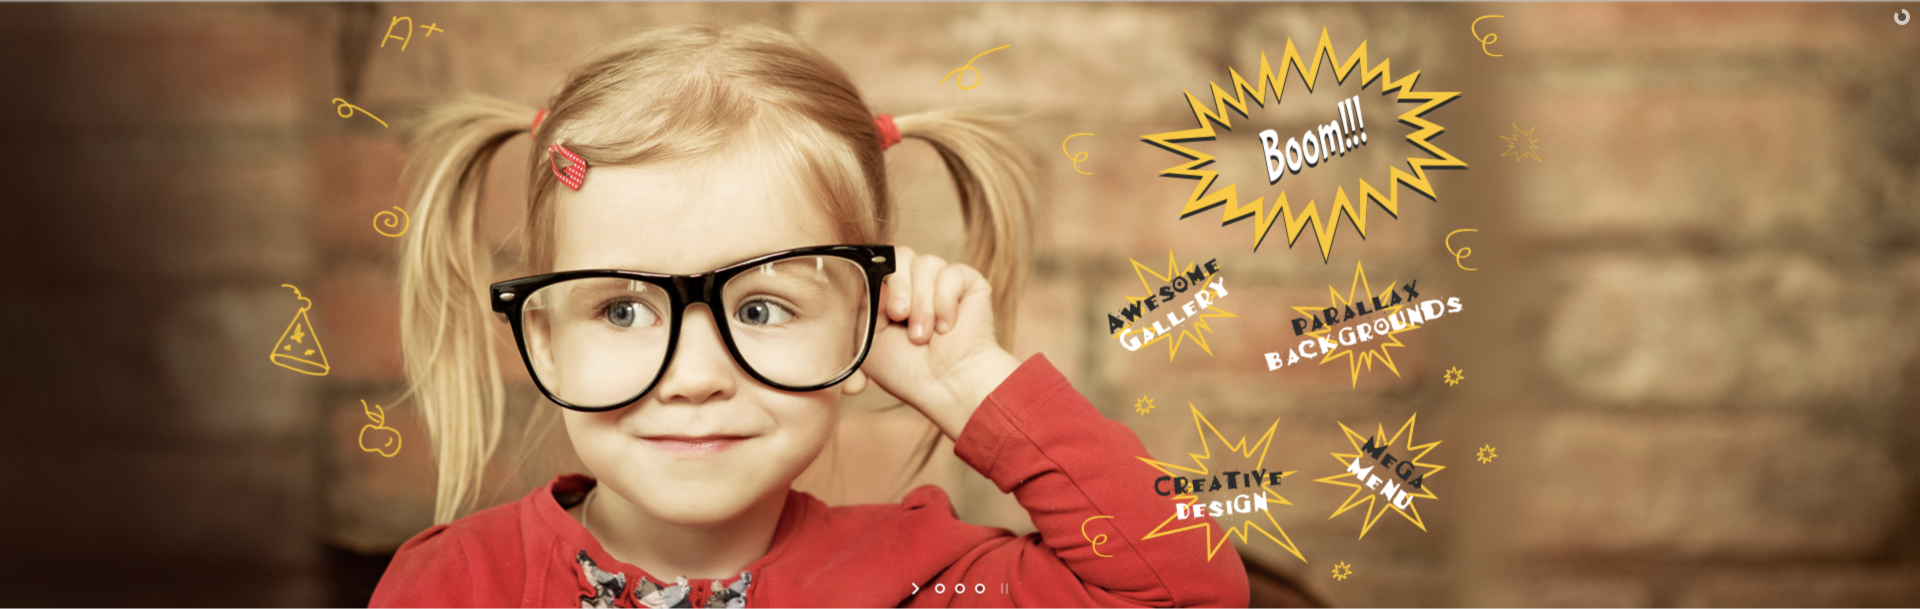
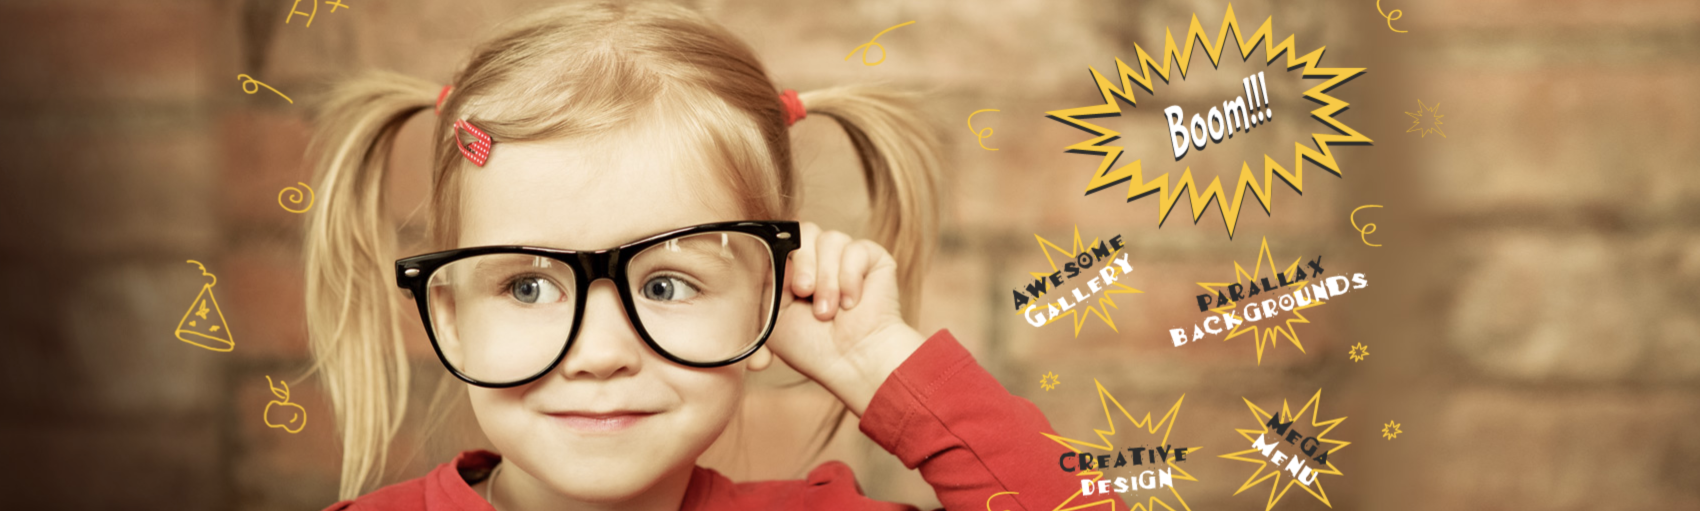
KLF-015: Полностью работающий слайдер (glide.js).

diff --git a/app/assets/stylesheets/front/slider.scss b/app/assets/stylesheets/front/slider.scss
@@ -1,95 +1,18 @@
-* {box-sizing:border-box}
-
-/* Slideshow container */
-.slideshow-container {
-  max-width: 1920px;
-  max-height: 609px;
-  position: relative;
-  margin: auto;
+#sliderwrapper {
+    width: 1400px;
+    min-height: 450px;
+    overflow: hidden;
+    position:relative;
 }
-
-/* Hide the images by default */
-.mySlides {
-  display: none;
+#sliderList {
+    list-style: none;
+    left: 0px;
+    position:absolute;
+    width:200000em;
 }
-
-/* Next & previous buttons */
-.prev, .next {
-  cursor: pointer;
-  position: absolute;
-  top: 50%;
-  width: auto;
-  margin-top: -22px;
-  padding: 16px;
-  color: white;
-  font-weight: bold;
-  font-size: 18px;
-  transition: 0.6s ease;
-  border-radius: 0 3px 3px 0;
-  user-select: none;
-}
-
-/* Position the "next button" to the right */
-.next {
-  right: 0;
-  border-radius: 3px 0 0 3px;
-}
-
-/* On hover, add a black background color with a little bit see-through */
-.prev:hover, .next:hover {
-  background-color: rgba(0,0,0,0.8);
-}
-
-/* Caption text */
-.text {
-  color: #f2f2f2;
-  font-size: 15px;
-  padding: 8px 12px;
-  position: absolute;
-  bottom: 8px;
-  width: 100%;
-  text-align: center;
-}
-
-/* Number text (1/3 etc) */
-.numbertext {
-  color: #f2f2f2;
-  font-size: 12px;
-  padding: 8px 12px;
-  position: absolute;
-  top: 0;
-}
-
-/* The dots/bullets/indicators */
-.dot {
-  cursor: pointer;
-  height: 15px;
-  width: 15px;
-  margin: 0 2px;
-  background-color: #bbb;
-  border-radius: 50%;
-  display: inline-block;
-  transition: background-color 0.6s ease;
-}
-
-.slider_active, .dot:hover {
-  background-color: #717171;
-}
-
-/* Fading animation */
-.fade {
-  -webkit-animation-name: fade;
-  -webkit-animation-duration: 1.5s;
-  animation-name: fade;
-  animation-duration: 1.5s;
-}
-
-@-webkit-keyframes fade {
-  from {opacity: .4}
-  to {opacity: 1}
-}
-
-@keyframes fade {
-  from {opacity: .4}
-  to {opacity: 1}
+.item {
+    float: left;
+    width: 1400px;
+    min-height: 450px;
+    // background-color:red;
 }

diff --git a/app/javascript/packs/custom/slider.js b/app/javascript/packs/custom/slider.js
@@ -1,45 +1,13 @@
+import Glide, { Controls, Autoplay, Swipe } from '@glidejs/glide/dist/glide.modular.esm';
+
 $(document).on('turbolinks:load', function(){
-  if($("body").hasClass('home')){
-    var showSlidesFunc = function showSlides(n, increment) {
-      increment_slide_index();
-      var i;
-      var slides = $(".mySlides");
-      var dots = $(".dot");
-      if (n > slides.length) {slideIndex = 1}
-      if (n < 1) {slideIndex = slides.length}
+  var slider = document.querySelector('.glide');
 
-      for (i = 0; i < slides.length; i++) {
-          slides[i].style.display = "none";
-      }
-      for (i = 0; i < dots.length; i++) {
-          dots[i].className = dots[i].className.replace(" slider_active", "");
-      }
-      slides[slideIndex-1].style.display = "block";
-      dots[slideIndex-1].className += " slider_active";
-      setTimeout(showSlidesFunc, 4000);
-    };
-
-    function increment_slide_index(){
-      if((slideIndex += 1) > 4) {
-        slideIndex = 1;
-      }
-    }
-
-
-    var slideIndex = 0;
-    // showSlides(slideIndex);
-    showSlidesFunc(1);
-
-    // Next/previous controls
-    // $('.slideshow-container a').on('click', function(e){
-    //   var next_move = $(this).data("nextmove");
-    //   showSlidesFunc(slideIndex += next_move, false);
-    // });
-
-    // Thumbnail image controls
-    // $('.dot').on('click', function(e){
-    //   var slide_count = $(this).data("currentslide");
-    //   showSlidesFunc(slideIndex = slide_count, false);
-    // });
+  if (slider) {
+    var glide = new Glide(slider, {
+      autoplay: 6000
+    });
+    glide.mount({ Controls, Autoplay, Swipe });
   }
+
 });

diff --git a/app/javascript/packs/custom/old_legacy_code_slider.js b/app/javascript/packs/custom/old_legacy_code_slider.js
@@ -1,0 +1,20 @@
+$(document).on('turbolinks:load', function(){
+  if($("body").hasClass('home')){
+    setInterval(slide, 4000);
+
+    function slide() {
+      var left = $('#sliderList').css('left');
+      left = left.substring(0, left.length - 2);
+      if (left <= -1800) {
+        $('#sliderList').css('left', '-1400px');
+        var slide = $('#sliderList li:first');
+        $('#sliderList').children('li:first').remove();
+        $('#sliderList').append(slide);
+        $('#sliderList').animate({ left: "-=1400px" }, "slow", "swing");
+      }
+      else {
+        $('#sliderList').animate({ left: "-=1400" }, "slow", "swing");
+      }
+    }
+  }
+});

diff --git a/app/javascript/packs/front.js b/app/javascript/packs/front.js
@@ -6,12 +6,12 @@
 
 // Internal
 // require("@rails/ujs")
-import { Glide } from '@glidejs/glide'
+// import { Glide } from '@glidejs/glide'
 // Glide.start()
 
 import Rails from '@rails/ujs'
 Rails.start()
-require('jquery')
+// require('jquery')
 require("turbolinks").start()
 require("@rails/activestorage").start()
 require("channels")
@@ -19,7 +19,6 @@ require("channels")
 // Custom
 
 require('./vendor_js/vendor_import.js')
-require('./custom/z_custom_import.js');
 
 
 

diff --git a/app/assets/stylesheets/front.scss b/app/assets/stylesheets/front.scss
@@ -17,5 +17,5 @@
 @import "front/slider";
 @import "front/mBox";
 
-@import "@glidejs/glide/dist/css/glide.core.min.css";
-@import "@glidejs/glide/dist/css/glide.theme.min.css";
+@import "@glidejs/glide/dist/css/glide.core.min";
+@import "@glidejs/glide/dist/css/glide.theme.min";

diff --git a/config/webpack/environment.js b/config/webpack/environment.js
@@ -4,8 +4,8 @@ const webpack = require('webpack')
 
 environment.plugins.prepend('Provide',
   new webpack.ProvidePlugin({
-    $: 'jquery/src/jquery',
-    jQuery: 'jquery/src/jquery'
+    $: 'jquery',
+    jQuery: 'jquery'
   })
 )
 

diff --git a/app/javascript/packs/styles.js b/app/javascript/packs/styles.js
@@ -8,4 +8,4 @@
 // require('./vendor_js/slick.js');
 // require("./vendor_js/slick-carousel.custom.js");
 
-// require('./custom/z_custom_import.js');
+require('./custom/custom_import.js');

diff --git a/app/javascript/packs/custom/custom_import.js b/app/javascript/packs/custom/custom_import.js
@@ -1,5 +1,4 @@
 require("./slider.js");
-// require("./new_slider.js");
 
 require("./mBox.js");
 require("./lightbox_script.js");
